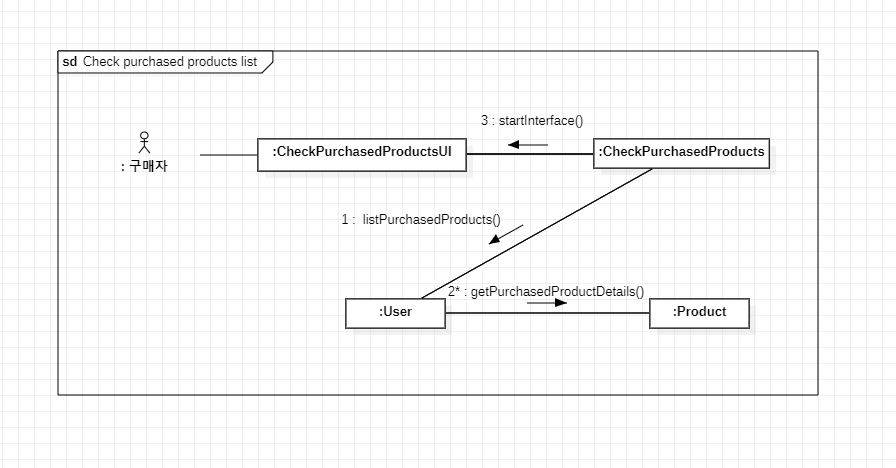
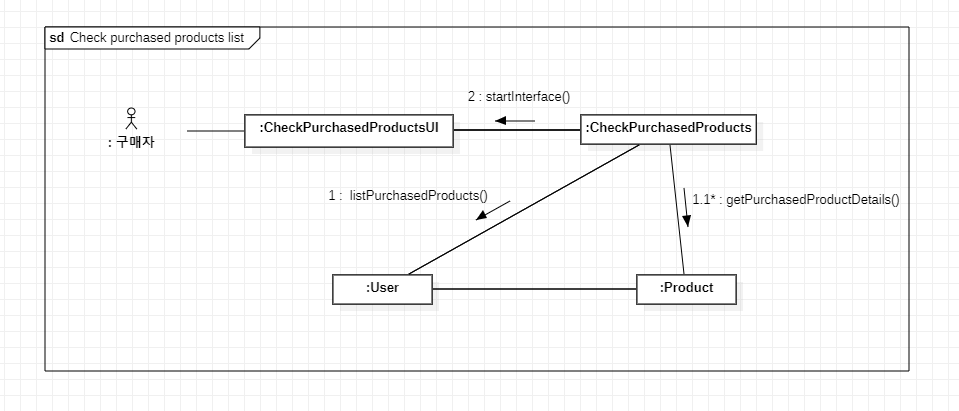
Fix communication diagram

diff --git a/dayeon/hw2/README.md b/dayeon/hw2/README.md
@@ -10,7 +10,7 @@
 
 ## 📌 Communication Diagram
 
-<img width="641" alt="check_purchased_list_communication_diagram" src="https://user-images.githubusercontent.com/62105312/168620121-77fe8126-5a24-4c7c-90be-2dc02e06abc9.png">
+<img width="641" alt="https://user-images.githubusercontent.com/62105312/169038061-d91ffbc4-5347-4186-8eae-d9f6c26ade32.png">
 
 ## 📌 Use Case Class Diagram
 
